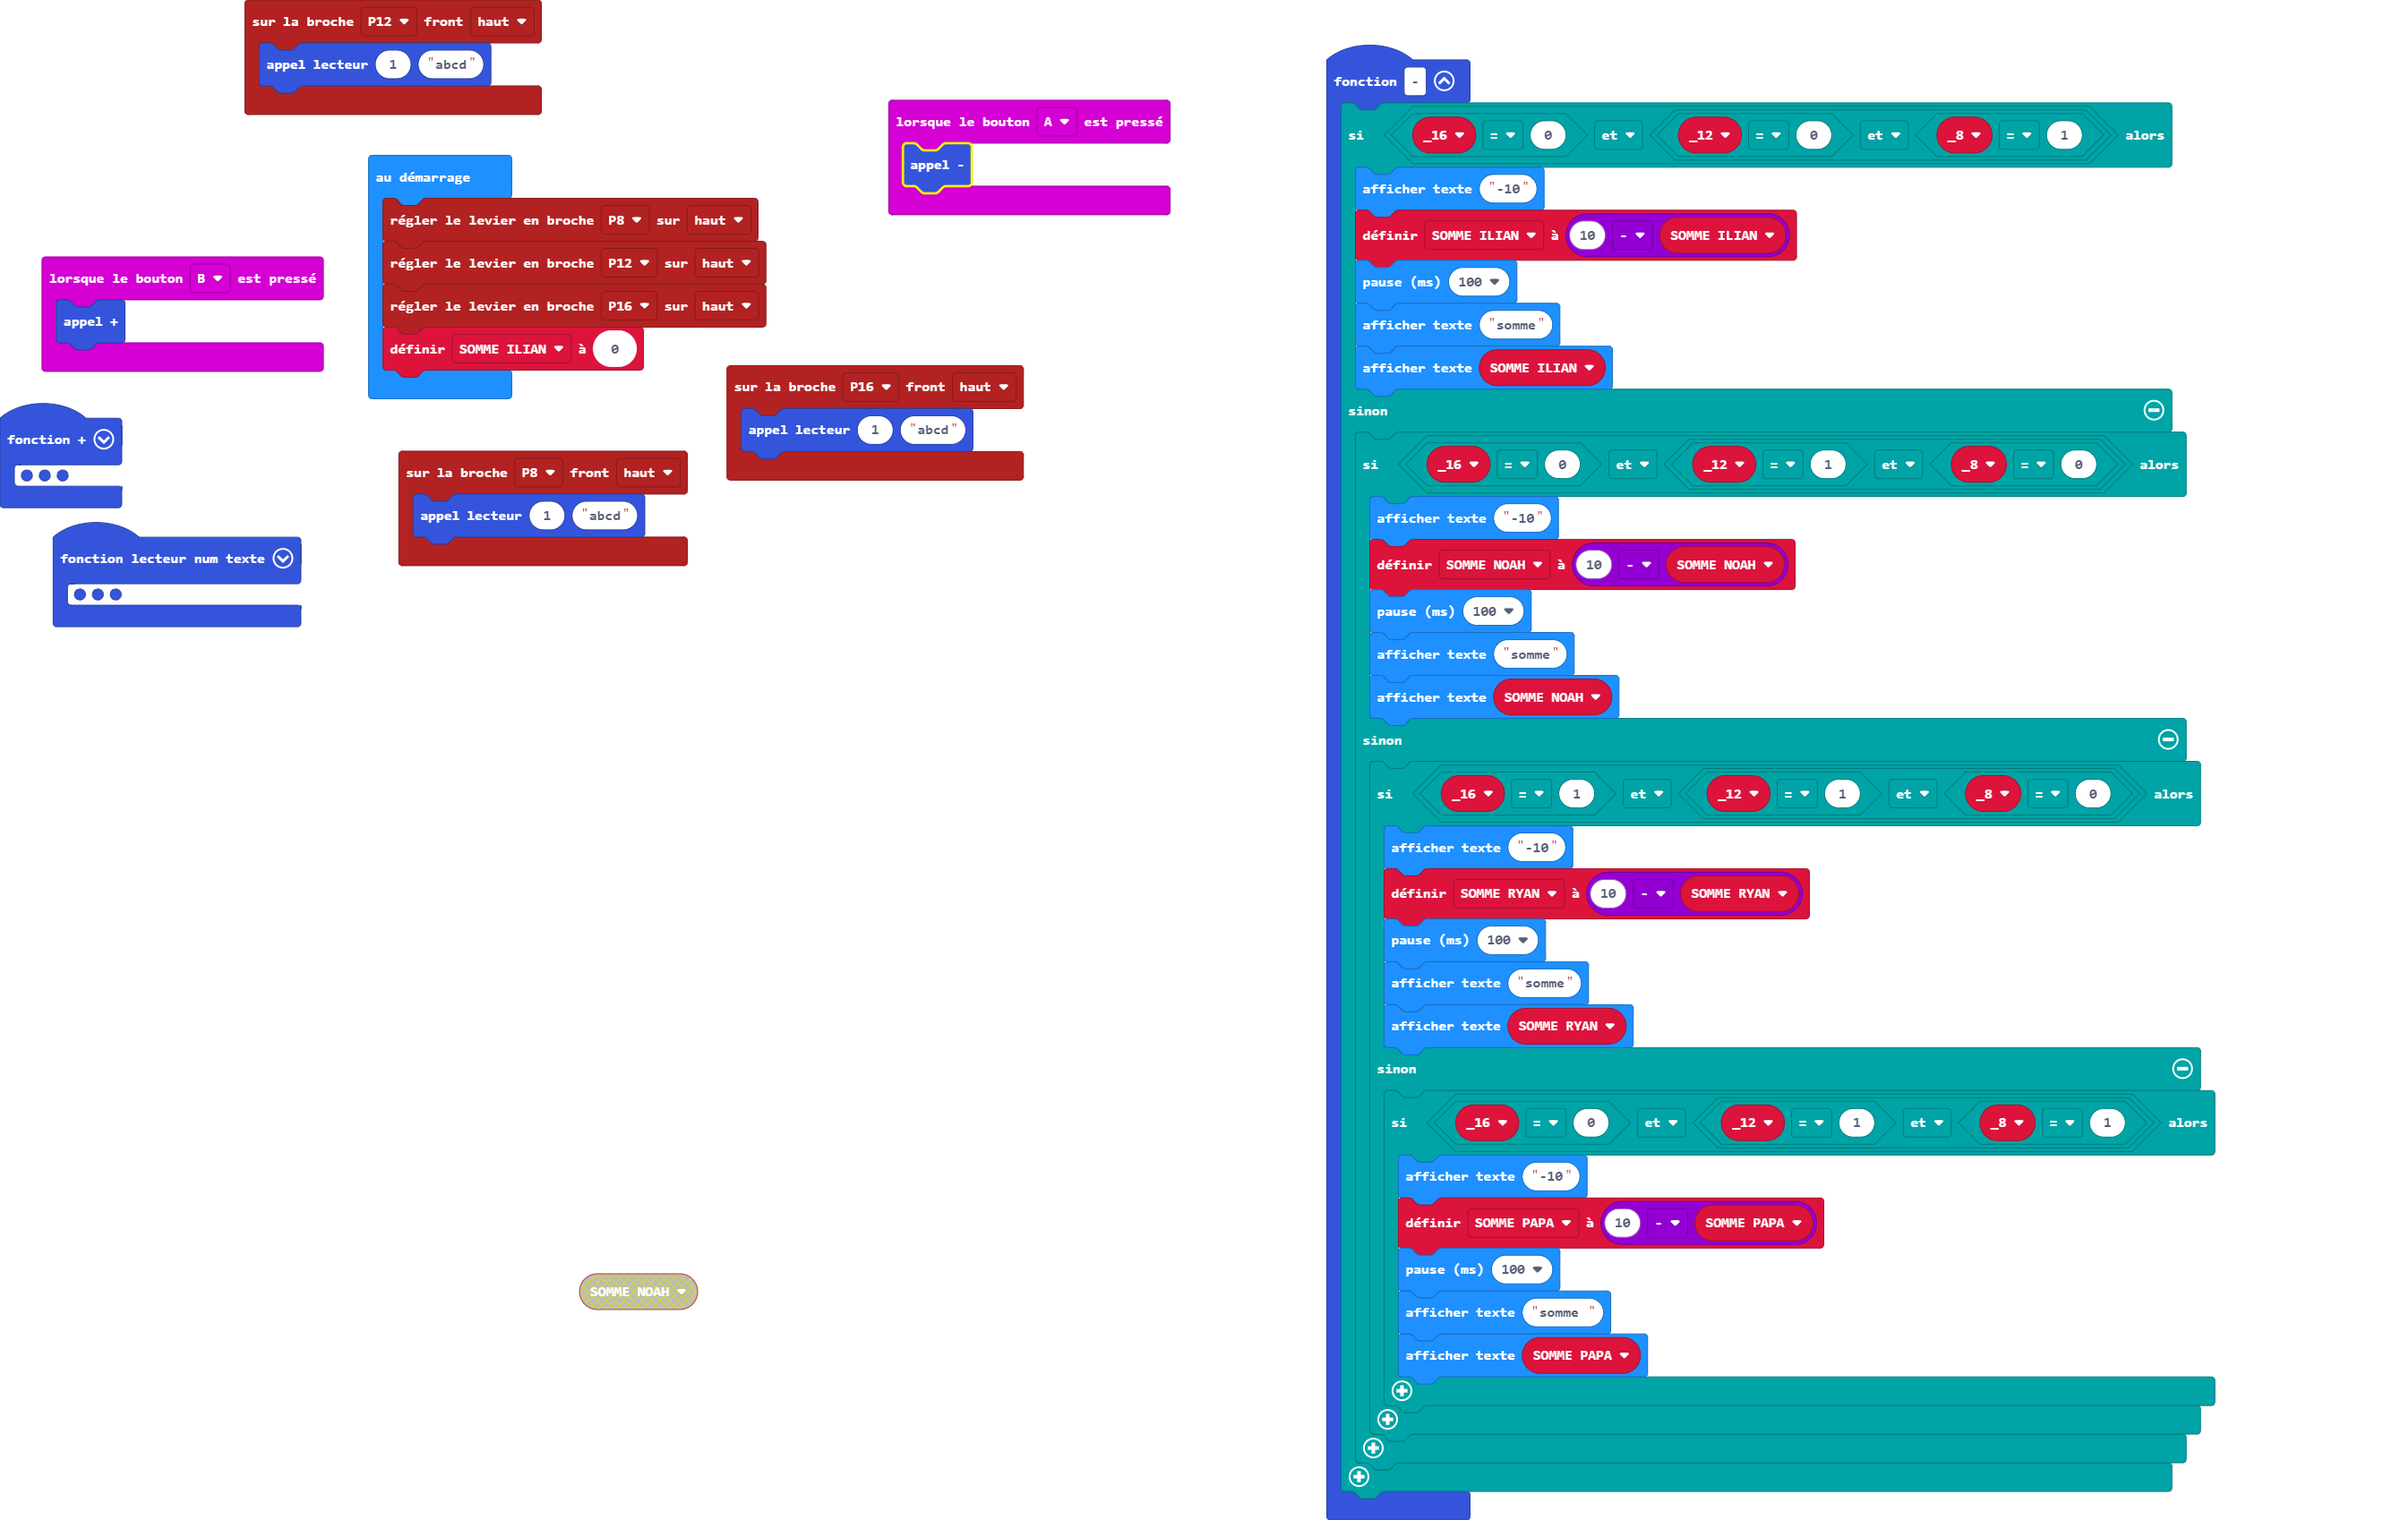
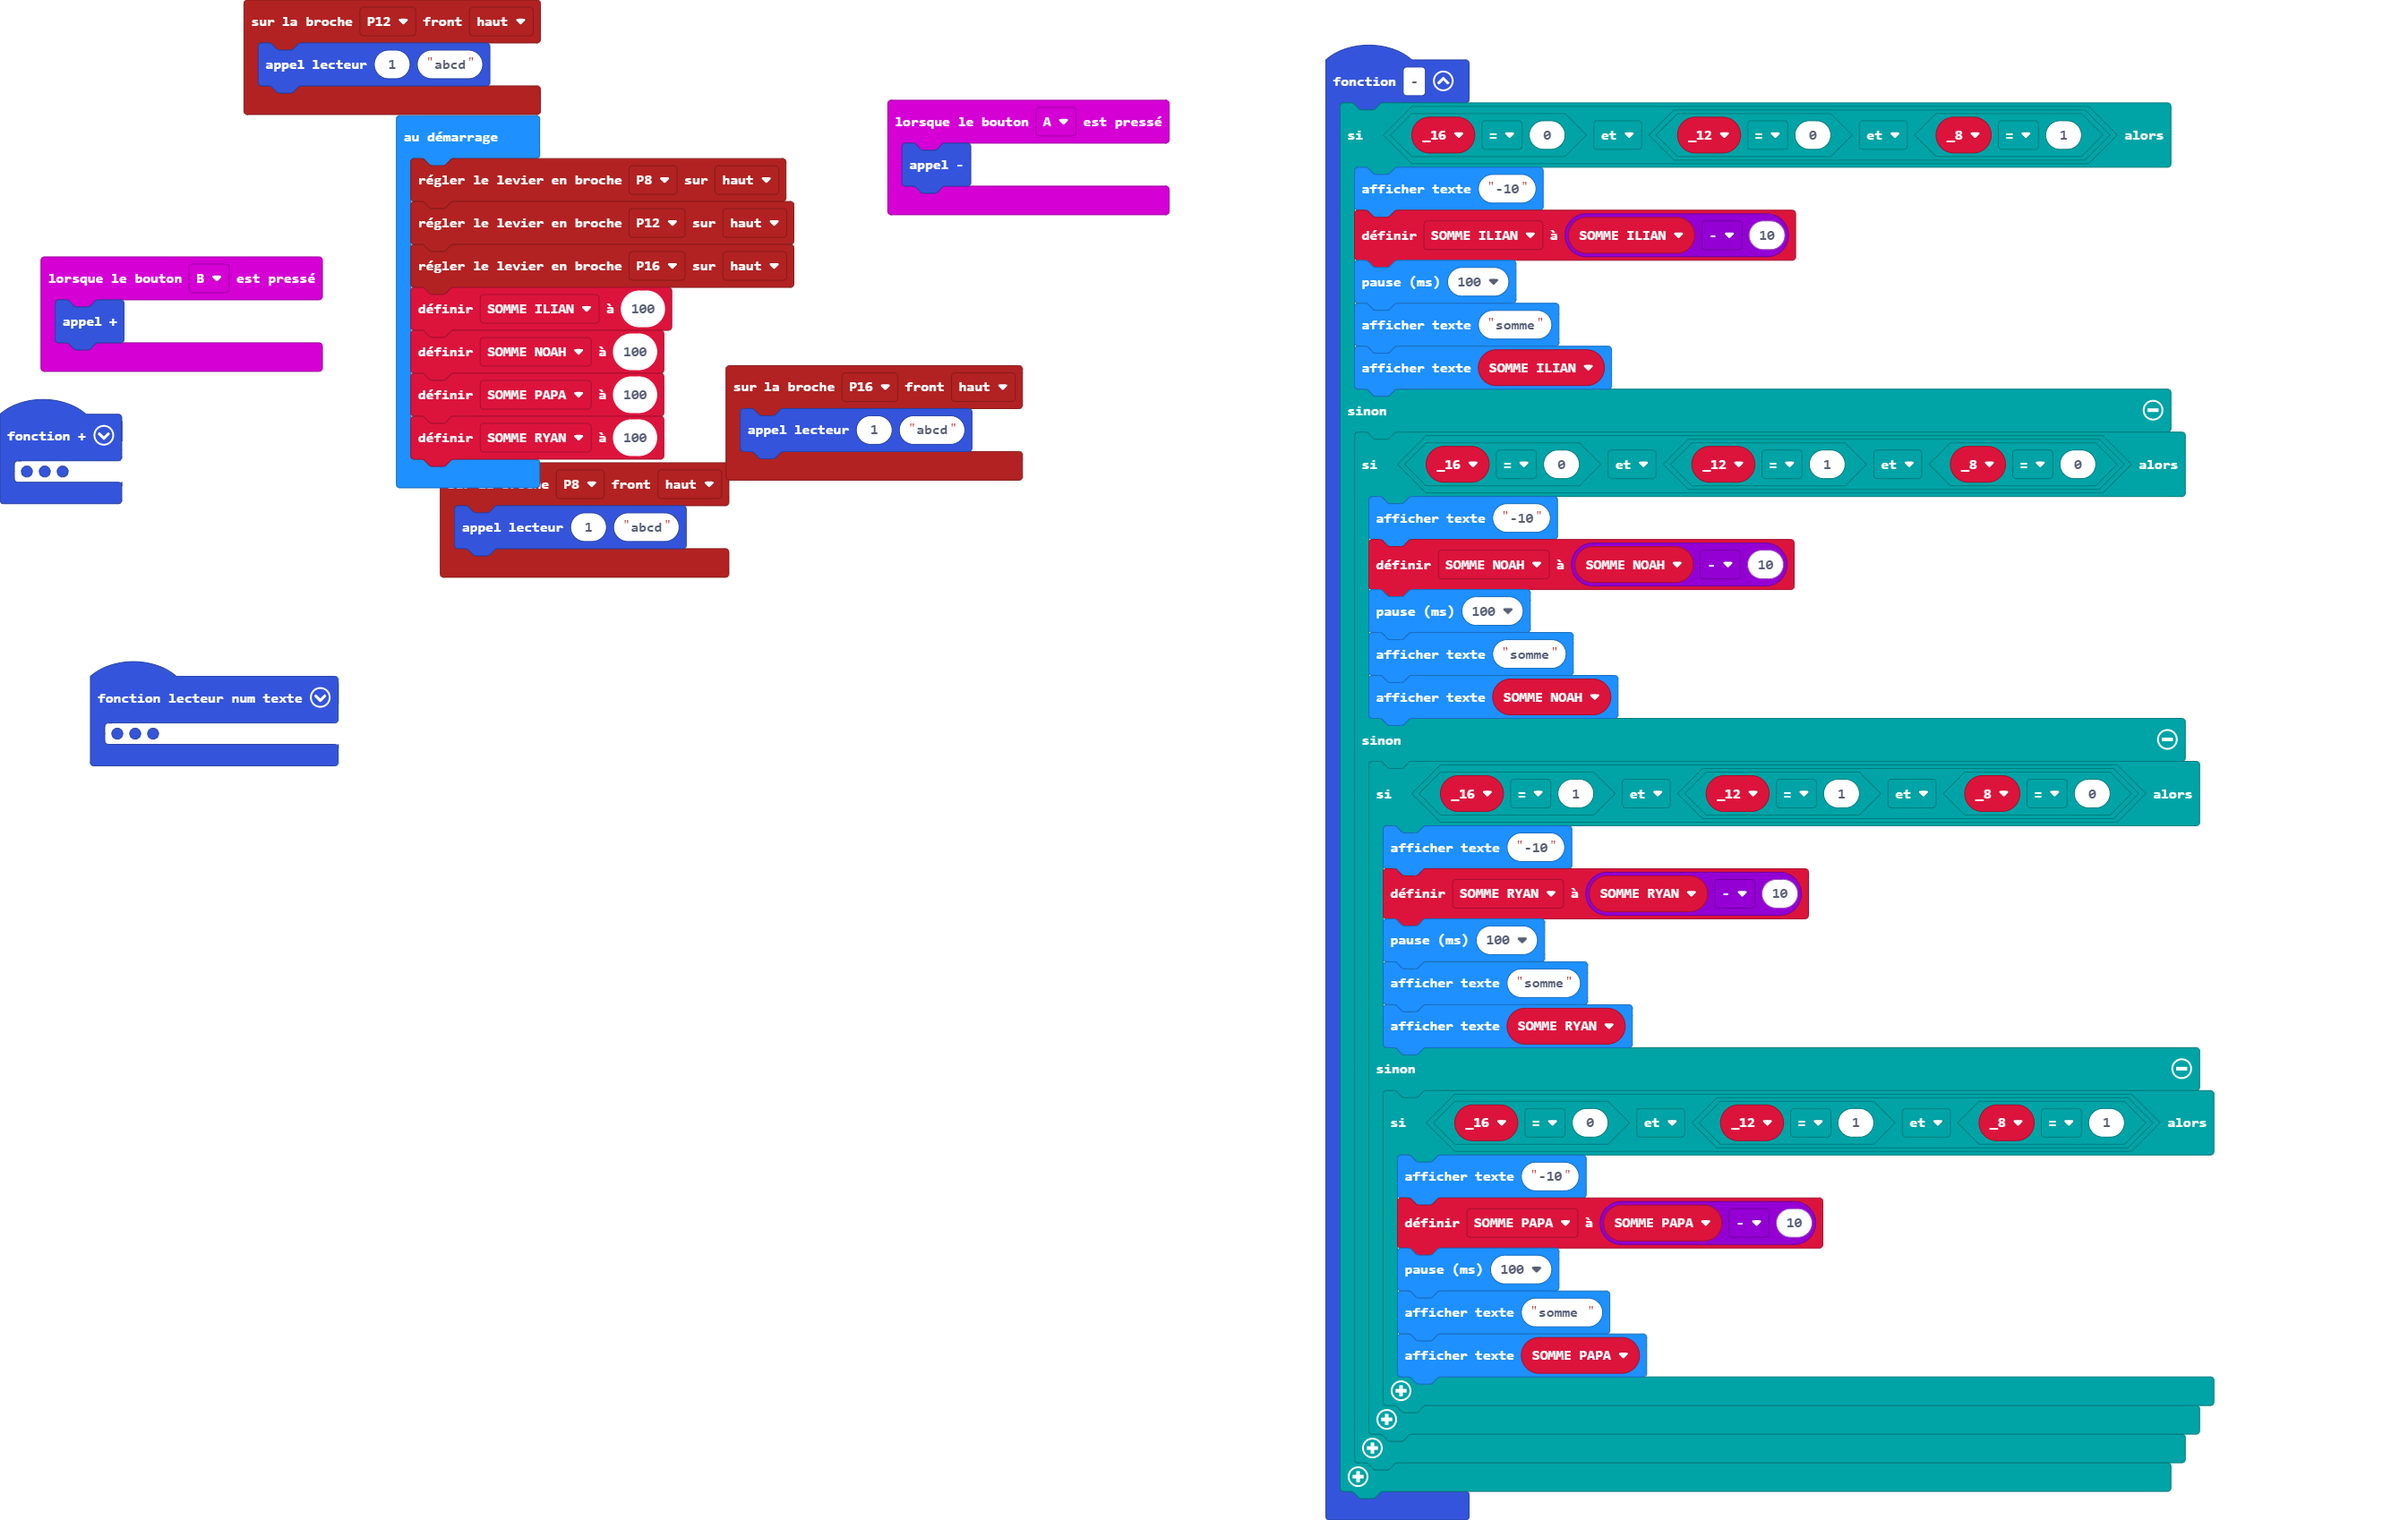
Mise à jour main.blocks, main.ts

diff --git a/main.ts b/main.ts
@@ -43,28 +43,28 @@ input.onButtonPressed(Button.A, function () {
 function _2 () {
     if (_16 == 0 && (_12 == 0 && _8 == 1)) {
         basic.showString("-10")
-        SOMME_ILIAN = 10 - SOMME_ILIAN
+        SOMME_ILIAN = SOMME_ILIAN - 10
         basic.pause(100)
         basic.showString("somme")
         basic.showString("" + (SOMME_ILIAN))
     } else {
         if (_16 == 0 && (_12 == 1 && _8 == 0)) {
             basic.showString("-10")
-            SOMME_NOAH = 10 - SOMME_NOAH
+            SOMME_NOAH = SOMME_NOAH - 10
             basic.pause(100)
             basic.showString("somme")
             basic.showString("" + (SOMME_NOAH))
         } else {
             if (_16 == 1 && (_12 == 1 && _8 == 0)) {
                 basic.showString("-10")
-                SOMME_RYAN = 10 - SOMME_RYAN
+                SOMME_RYAN = SOMME_RYAN - 10
                 basic.pause(100)
                 basic.showString("somme")
                 basic.showString("" + (SOMME_RYAN))
             } else {
                 if (_16 == 0 && (_12 == 1 && _8 == 1)) {
                     basic.showString("-10")
-                    SOMME_PAPA = 10 - SOMME_PAPA
+                    SOMME_PAPA = SOMME_PAPA - 10
                     basic.pause(100)
                     basic.showString("somme ")
                     basic.showString("" + (SOMME_PAPA))
@@ -119,8 +119,6 @@ function lecteur (num: number, texte: string) {
         }
     }
     basic.pause(200)
-    basic.showString("aurevoir")
-    basic.pause(100)
     basic.clearScreen()
 }
 input.onButtonPressed(Button.B, function () {
@@ -129,14 +127,17 @@ input.onButtonPressed(Button.B, function () {
 pins.onPulsed(DigitalPin.P12, PulseValue.High, function () {
     lecteur(1, "abcd")
 })
-let SOMME_PAPA = 0
-let SOMME_RYAN = 0
-let SOMME_NOAH = 0
 let _8 = 0
 let _12 = 0
 let _16 = 0
+let SOMME_RYAN = 0
+let SOMME_PAPA = 0
+let SOMME_NOAH = 0
 let SOMME_ILIAN = 0
 pins.setPull(DigitalPin.P8, PinPullMode.PullUp)
 pins.setPull(DigitalPin.P12, PinPullMode.PullUp)
 pins.setPull(DigitalPin.P16, PinPullMode.PullUp)
-SOMME_ILIAN = 0
+SOMME_ILIAN = 100
+SOMME_NOAH = 100
+SOMME_PAPA = 100
+SOMME_RYAN = 100
